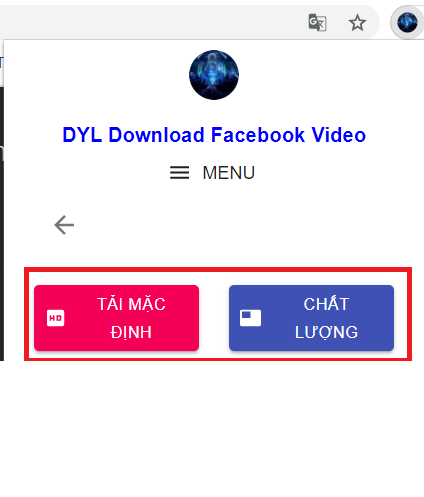
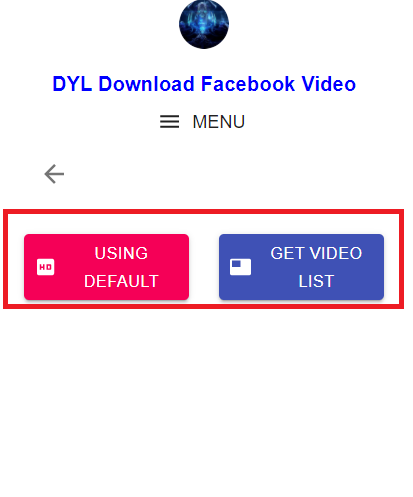
Finish Page Introduce

diff --git a/en/home/index.html b/en/home/index.html
@@ -72,6 +72,8 @@
 				<p style="font-size: 1.5em; text-align: center;">- Download <a title="download-link"
 						href="https://chrome.google.com/webstore/detail/dyl-download-facebook-vid/honmapcmnfgjmahijdniaaollhhfpcnj"
 						target="_blank" rel="noopener">here</a></p>
+				<p style="font-size: 1.5em; text-align: center;">- Tutorial at &nbsp;<a title="Link Report" href="#how-to-use"
+						rel="noopener">here</a></p>
 				<p style="font-size: 1.5em; text-align: center;">- Help me report the error in&nbsp;<a
 						title="Link Report"
 						href="https://www.facebook.com/permalink.php?story_fbid=119085433338413&amp;id=101259035121053"
@@ -116,13 +118,14 @@
 					comment to download the video instead of relying on the button too much.<br />- There are 3 ways to
 					download,
 					now to download method, there are 2 download methods:<br /> <strong>+ Download by
-						default</strong><br /><strong>+ Get Video quality</strong><br />- Download by default will
+						default</strong><br /><strong>+ Get Video List</strong><br /><span class="image main"><img
+							src="images/download-method.png" alt="" /></span><br />- Download by default will
 					choose
 					<strong>the highest quality video with sound</strong> if any, some videos sometimes used by this
 					download are
 					not good quality because <strong>the highest quality video often doesn't have sound</strong>, you
 					can choose
-					<strong>Get Video Quality</strong> instead.<br /> - Get Video quality helps you to choose videos and
+					<strong>Get Video List</strong> instead.<br /> - Get Video List helps you to choose videos and
 					audio with
 					different quality, but for video without HD or SD mark(like 1080P, 720P), <strong>there will be no
 						sound</strong>, but you can choose 'Merge Video + Audio' to combine video and audio together,
